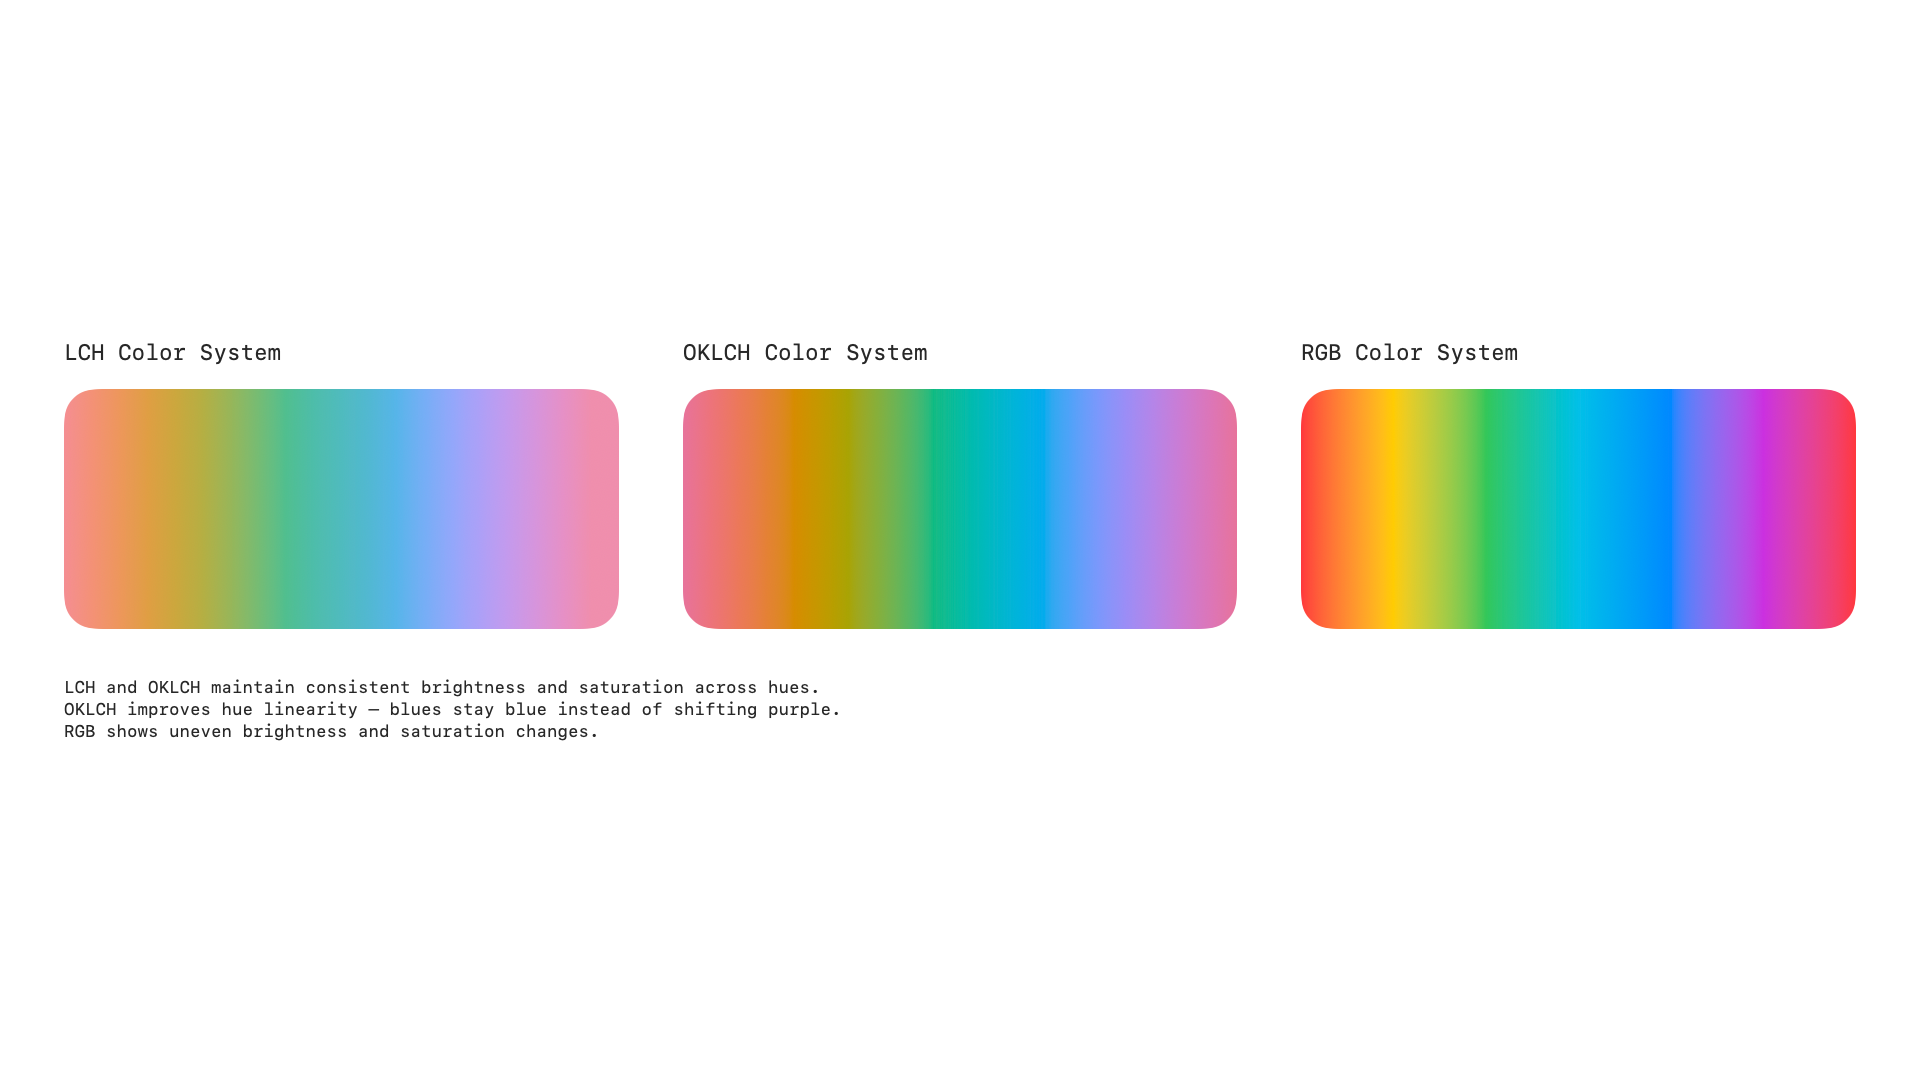
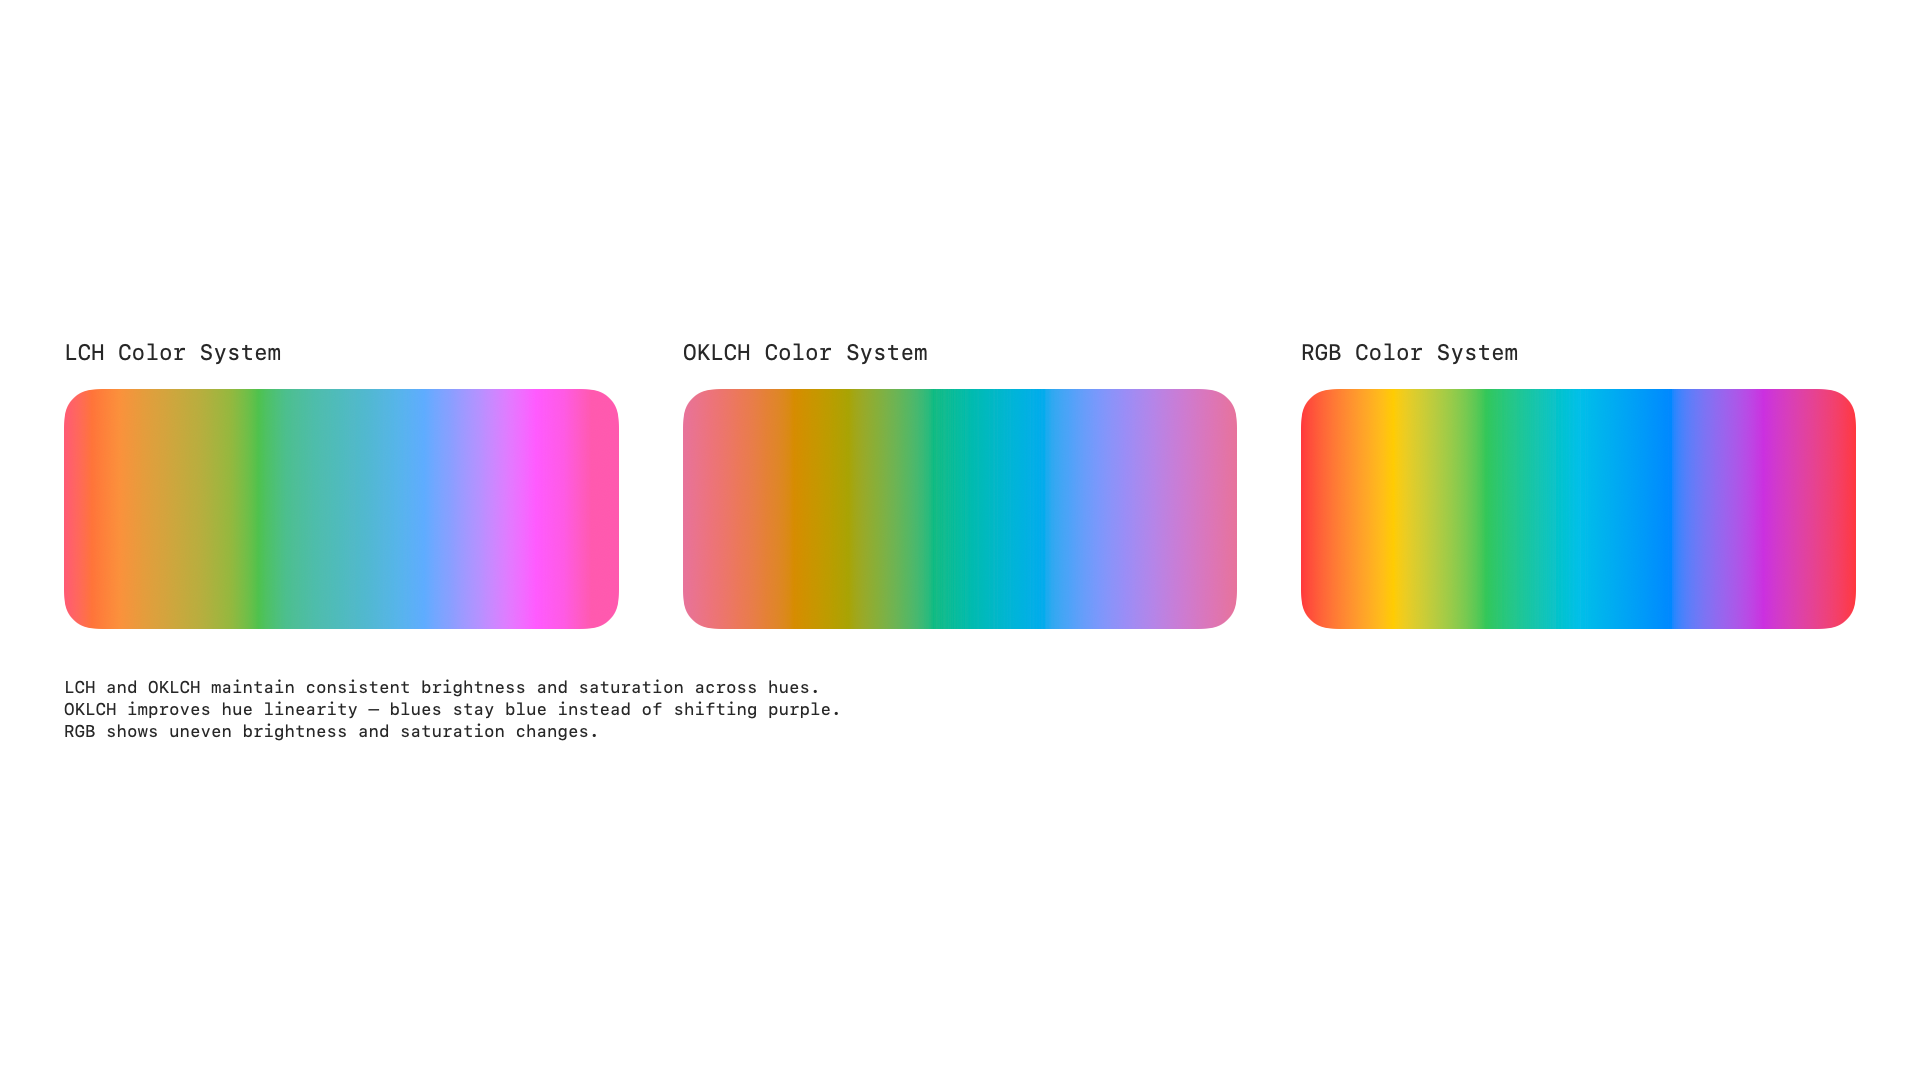
Give every stop the most chroma sRGB allows, at the same lightness
Every hue still shares one CIELab L* per stop, so every stop's contrast is
unchanged. Chroma is no longer capped at what 20 of the 25 named hues can
show: each stop is 98% of the most sRGB allows at its lightness and hue
(the margin that keeps 8-bit rounding inside sRGB), the same color
saturate(by: 1) reaches.

At the sRGB edge, a hue that drifts 0.01° moves a channel by one 8-bit
step, and the OKLCH stops were round-tripped through CIELab LCH, which
rounds hue. So _600.darken(by: 2) came out #065ea5 against _700's
#055ea5. OKLCH ramps now come straight from UniformRamp with the exact
hue, and palette snapping is exact in every hue again.

Tests: new checks that every hue has the same contrast at a stop, that
every stop is as vivid as sRGB allows, and that lighten, darken and invert
land on exact stops in all 25 hues and a custom one (the last fails
without the hue fix). The rainbow midpoint check allows 6° instead of 2°:
stops this vivid meet outside sRGB halfway, and CSS Color 4 mapping turns
the hue a little as it pulls the color in. 131 tests pass.

README images regenerated; the OKLCH grid doesn't use the palette and is
unchanged.

Claude-Session: https://claude.ai/code/session_01HV1rpyRzHNfSKrLh1CJGje

Changed region(s): [[0.0312, 0.3361, 0.1562, 0.5806], [0.25, 0.3361, 0.3438, 0.5806]]

diff --git a/Sources/ColorTokensKit/Services/Ramps/UniformRamp.swift b/Sources/ColorTokensKit/Services/Ramps/UniformRamp.swift
@@ -2,10 +2,9 @@
 //  UniformRamp.swift
 //  ColorTokensKit
 //
-//  Every hue shares one lightness and one chroma per stop. Lightness is
-//  CIELab L* (so WCAG contrast is the same for every hue at a stop); chroma and hue
-//  are OKLCH, and hue is constant along a ramp. A hue that can't reach a stop's
-//  chroma in sRGB gets as close as it can.
+//  Every hue shares one lightness per stop, and gets as much chroma as sRGB can show
+//  there. Lightness is CIELab L* (so WCAG contrast is the same for every hue at a stop);
+//  chroma and hue are OKLCH, and hue is constant along a ramp.
 //
 
 import Foundation
@@ -17,30 +16,30 @@ enum UniformRamp {
         53.5, 48.8, 44.0, 39.2, 34.4, 29.5, 24.6, 19.9, 15.0, 10.2,
     ]
 
-    /// OKLCH chroma for _50 … _1000: the most that at least 20 of the 25 named hues can show in sRGB.
-    static let chroma: [Double] = [
-        0.014, 0.029, 0.047, 0.065, 0.085, 0.106, 0.126, 0.141, 0.139, 0.131,
-        0.123, 0.114, 0.106, 0.097, 0.089, 0.080, 0.072, 0.063, 0.055, 0.046,
-    ]
-
-    /// Fraction of the sRGB edge a clamped hue may reach.
+    /// Fraction of the sRGB edge every stop reaches, so 8-bit rounding never pushes a stop outside sRGB.
     static let gamutMargin = 0.98
 
-    static func ramp(hue: Double) -> [LCHColor] {
-        zip(lightness, chroma).map { lightnessStar, targetChroma in
+    /// Each stop is the most vivid color sRGB can show at its lightness and the ramp's hue.
+    /// The stops keep the ramp's exact hue: a stop sits on the sRGB edge, so a hue that drifted even
+    /// 0.01° in a round trip would move a channel by one 8-bit step when a color function rebuilds it.
+    static func oklchRamp(hue: Double) -> [OKLCHColor] {
+        lightness.map { lightnessStar in
             let luminance = Gamut.luminance(lightnessStar: lightnessStar)
-            let chroma = min(targetChroma, gamutMargin * Gamut.maxChroma(luminance: luminance, hue: hue))
+            let chroma = gamutMargin * Gamut.maxChroma(luminance: luminance, hue: hue)
             let oklabLightness = Gamut.lightness(forLuminance: luminance, chroma: chroma, hue: hue)
-            return OKLCHColor(l: oklabLightness, c: chroma, h: hue).toRGB().toLCH()
+            return OKLCHColor(l: oklabLightness, c: chroma, h: hue)
         }
     }
 
-    /// Whether `chroma` is what `ramp(hue:)` gives `hue` at a stop, within `tolerance`: the shared chroma,
-    /// or the gamut limit of a hue that can't reach it. Two gamut checks bracket that limit, which is far
-    /// cheaper than searching for it, and this runs every time a color function draws.
+    /// The same ramp in CIELab LCH, for the LCH API.
+    static func ramp(hue: Double) -> [LCHColor] {
+        oklchRamp(hue: hue).map { $0.toRGB().toLCH() }
+    }
+
+    /// Whether `chroma` is what `ramp(hue:)` gives `hue` at a stop, within `tolerance`: the sRGB limit there.
+    /// Two gamut checks bracket that limit, which is far cheaper than searching for it, and this runs every
+    /// time a color function draws.
     static func isChroma(_ chroma: Double, atStop index: Int, hue: Double, tolerance: Double) -> Bool {
-        if abs(chroma - self.chroma[index]) <= tolerance { return true }
-        guard chroma < self.chroma[index] else { return false }
         let luminance = Gamut.luminance(lightnessStar: lightness[index])
         return Gamut.fits(chroma: (chroma - tolerance) / gamutMargin, luminance: luminance, hue: hue)
             && !Gamut.fits(chroma: (chroma + tolerance) / gamutMargin, luminance: luminance, hue: hue)

diff --git a/Tests/ColorTokensKitTests/ColorRampTests.swift b/Tests/ColorTokensKitTests/ColorRampTests.swift
@@ -192,4 +192,31 @@ final class ColorRampTests: XCTestCase {
                 "Stop \(i) hue \(color.h) should be in [0, 360)")
         }
     }
+
+    // MARK: - The palette's promises
+
+    private var namedHues: [ProColor] {
+        Color.allProHues.values.filter { !$0.isGrayscale }
+    }
+
+    // Every hue shares one lightness per stop, so a stop has the same contrast in every hue: swapping a
+    // theme's family never changes whether its text passes.
+    func testEveryHueHasTheSameContrastAtAStop() {
+        for index in 0..<ColorConstants.rampStops {
+            let ratios = namedHues.map { $0.allStops[index].toColor().contrastRatio(to: .white) }
+            XCTAssertLessThan(ratios.max()! - ratios.min()!, 0.02, "Stop \(index) contrast on white varies: \(ratios.min()!) to \(ratios.max()!)")
+        }
+    }
+
+    // Every stop is as vivid as sRGB can show at its lightness, less the margin that keeps 8-bit rounding inside
+    // sRGB. If this drops, the palette gets duller than the screen allows for no gain in contrast.
+    func testEveryStopIsAsVividAsSRGBAllows() {
+        for family in namedHues {
+            for (index, stop) in family.allStops.enumerated() {
+                let luminance = Gamut.luminance(lightnessStar: UniformRamp.lightness[index])
+                let most = Gamut.maxChroma(luminance: luminance, hue: Double(stop.h))
+                XCTAssertEqual(Double(stop.c), UniformRamp.gamutMargin * most, accuracy: 0.002, "\(family.h)° stop \(index)")
+            }
+        }
+    }
 }

diff --git a/Tests/ColorTokensKitTests/AdjustmentTests.swift b/Tests/ColorTokensKitTests/AdjustmentTests.swift
@@ -19,6 +19,17 @@ final class AdjustmentTests: XCTestCase {
         XCTAssertEqual(blue._600.toColor().darken(by: 2).hex(), blue._700.toColor().hex())
     }
 
+    // Stops sit on the sRGB edge, where a hue that drifts by 0.01° moves a channel by one 8-bit step. So exact
+    // landing has to hold in every hue, including a custom one, not only in blue.
+    func testFunctionsLandOnExactStopsInEveryHue() {
+        let families = Color.allProHues.values.filter { !$0.isGrayscale } + [ProColor.primary(forHue: 166.99)]
+        for family in families {
+            XCTAssertEqual(family._600.toColor().lighten().hex(), family._550.toColor().hex(), "\(family.h)° lighten")
+            XCTAssertEqual(family._600.toColor().darken(by: 2).hex(), family._700.toColor().hex(), "\(family.h)° darken")
+            XCTAssertEqual(family._200.toColor().invert().hex(), family._850.toColor().hex(), "\(family.h)° invert")
+        }
+    }
+
     // A token is two colors. An adjustment has to apply to each appearance, or dark mode breaks.
     func testAdjustmentsApplyInLightAndDarkMode() {
         let lighter = token.lighten()

diff --git a/Sources/ColorTokensKit/Services/Ramps/ColorRampGenerator.swift b/Sources/ColorTokensKit/Services/Ramps/ColorRampGenerator.swift
@@ -3,7 +3,7 @@
 // ColorTokensKit
 //
 // Builds and caches 20-stop ramps. Chromatic ramps are keyed by OKLCH hue and
-// built by UniformRamp (shared lightness and chroma per stop); gray is listed
+// built by UniformRamp (shared lightness per stop, the most chroma sRGB allows); gray is listed
 // at the end of this file.
 //
 
@@ -69,7 +69,10 @@ public class ColorRampGenerator {
         }
         ColorRampGenerator.cacheLock.unlock()
 
-        let result = getColorRamp(forHue: targetHue, steps: steps, isGrayscale: isGrayscale).map { $0.toRGB().toOKLCH() }
+        // Chromatic stops come straight from UniformRamp, so they keep the ramp's exact hue.
+        let result = isGrayscale || steps != ColorConstants.rampStops
+            ? getColorRamp(forHue: targetHue, steps: steps, isGrayscale: isGrayscale).map { $0.toRGB().toOKLCH() }
+            : UniformRamp.oklchRamp(hue: normalizedTargetHue)
 
         ColorRampGenerator.cacheLock.lock()
         ColorRampGenerator.oklchInterpolatedRamps[cacheKey] = result

diff --git a/Tests/ColorTokensKitTests/GradientTests.swift b/Tests/ColorTokensKitTests/GradientTests.swift
@@ -38,11 +38,13 @@ final class GradientTests: XCTestCase {
     }
 
     // `.rainbow` exists to take the other way around: red → gold must pass blue, not orange, or choosing it does nothing.
+    // Halfway the long way is 231°. Stops this vivid meet outside sRGB there, and CSS Color 4 mapping can turn the hue a
+    // few degrees as it pulls the color in, so the check allows that and still rules out orange.
     func testRainbowGoesTheLongWayRound() {
         let red = Color.proRed._500.toColor().resolvedOKLCH(for: .light) // hue 24°
         let gold = Color.proGold._500.toColor().resolvedOKLCH(for: .light) // hue 78°
         XCTAssertEqual(Double(GradientStops.interpolate(red, gold, at: 0.5, blend: .vivid).h), 51, accuracy: 2)
-        XCTAssertEqual(Double(GradientStops.interpolate(red, gold, at: 0.5, blend: .rainbow).h), 231, accuracy: 2)
+        XCTAssertEqual(Double(GradientStops.interpolate(red, gold, at: 0.5, blend: .rainbow).h), 231, accuracy: 6)
     }
 
     // MARK: - Easing

diff --git a/Sources/ColorTokensKit/Services/Ramps/PaletteStop.swift b/Sources/ColorTokensKit/Services/Ramps/PaletteStop.swift
@@ -3,8 +3,9 @@
 //  ColorTokensKit
 //
 //  A color that sits exactly on a ColorTokensKit ramp: its hue plus its stop.
-//  Because every chromatic ramp shares one lightness and one chroma per stop, a
-//  color's lightness says which stop it is and its hue says which ramp. Color
+//  Because every chromatic ramp shares one lightness per stop, and each stop's
+//  chroma is the sRGB limit at its hue, a color's lightness says which stop it is
+//  and its hue says which ramp. Color
 //  functions use this to move palette colors stop by stop, so their results are
 //  real palette colors and contrast stays predictable.
 //

diff --git a/Readme.md b/Readme.md
@@ -114,7 +114,7 @@ In ColorTokensKit, each token maps a semantic role (like "primary background" or
 
 ## How It Works
 
-ColorTokensKit generates a 20-stop ramp for any OKLCH hue, from near-white (`_50`) to near-black (`_1000`). Every hue shares the same lightness and chroma at each stop. Lightness is CIELab L\*, so a given stop has the same contrast (WCAG) whatever the hue; chroma is the most that nearly every hue can show in sRGB, and a hue that can't reach it gets as close as it can.
+ColorTokensKit generates a 20-stop ramp for any OKLCH hue, from near-white (`_50`) to near-black (`_1000`). Every hue shares the same lightness at each stop. Lightness is CIELab L\*, so a given stop has the same contrast (WCAG) whatever the hue. Chroma is the most each hue can show in sRGB at that lightness, so every stop is as vivid as the screen allows at its contrast.
 
 The `ProColor` type wraps these ramps with semantic accessors — `.foregroundPrimary`, `.backgroundSecondary`, `.outlineTertiary` — that automatically resolve to the right stop for light and dark mode.
 
@@ -495,7 +495,7 @@ Color (any SwiftUI color)
 - **OKLCHColor / OKLabColor** — OKLCH polar and OKLab cartesian forms (Ottosson's reference).
 - **LCHColor / LABColor / XYZColor** — CIELab color spaces.
 - **RGBColor** — sRGB, bridges to/from SwiftUI `Color`.
-- **ColorRampGenerator** — builds and caches 20-stop ramps: `UniformRamp` for hues (one lightness and one chroma per stop, shared by every hue), the palette data for gray.
+- **ColorRampGenerator** — builds and caches 20-stop ramps: `UniformRamp` for hues (one lightness per stop, shared by every hue, and the most chroma sRGB allows), the palette data for gray.
 - **Adjustments, Harmonies, Gradients** — the color functions. Each returns a `Color` that is worked out when drawn, for the current appearance (`Color+Adaptive`).
 - **Gamut, StopLadder, PaletteStop** — shared math: fitting colors into sRGB, the lightness of each stop, and recognizing palette colors so they move stop by stop.
 

diff --git a/CLAUDE.md b/CLAUDE.md
@@ -34,7 +34,7 @@ Hand-tuned LCH color stops for base hues (gray, pink, red, orange, etc.). Each p
 
 ### Color ramp generation (`Sources/ColorTokensKit/Services/Ramps/`)
 
-`ColorRampGenerator.getColorRamp(forHue:steps:isGrayscale:)` is the core engine. The hue is an OKLCH hue. `UniformRamp.ramp(hue:)` builds 20 stops (lightest to darkest) that share one CIELab L* and one OKLCH chroma per stop with every other hue — the two tables live in `UniformRamp`. A hue that can't reach a stop's chroma in sRGB gets as close as it can. Gray comes from the JSON.
+`ColorRampGenerator.getColorRamp(forHue:steps:isGrayscale:)` is the core engine. The hue is an OKLCH hue. `UniformRamp.oklchRamp(hue:)` builds 20 stops (lightest to darkest) that share one CIELab L* per stop with every other hue (the table lives in `UniformRamp`), each at 98% of the most OKLCH chroma sRGB allows at that lightness and hue. The OKLCH ramps come from it directly and keep the exact hue: stops sit on the sRGB edge, so a hue that drifted 0.01° would move a channel by one 8-bit step when a color function rebuilds a stop. Gray comes from the JSON.
 
 Results are cached in a static dictionary keyed by normalized hue + step count.
 
